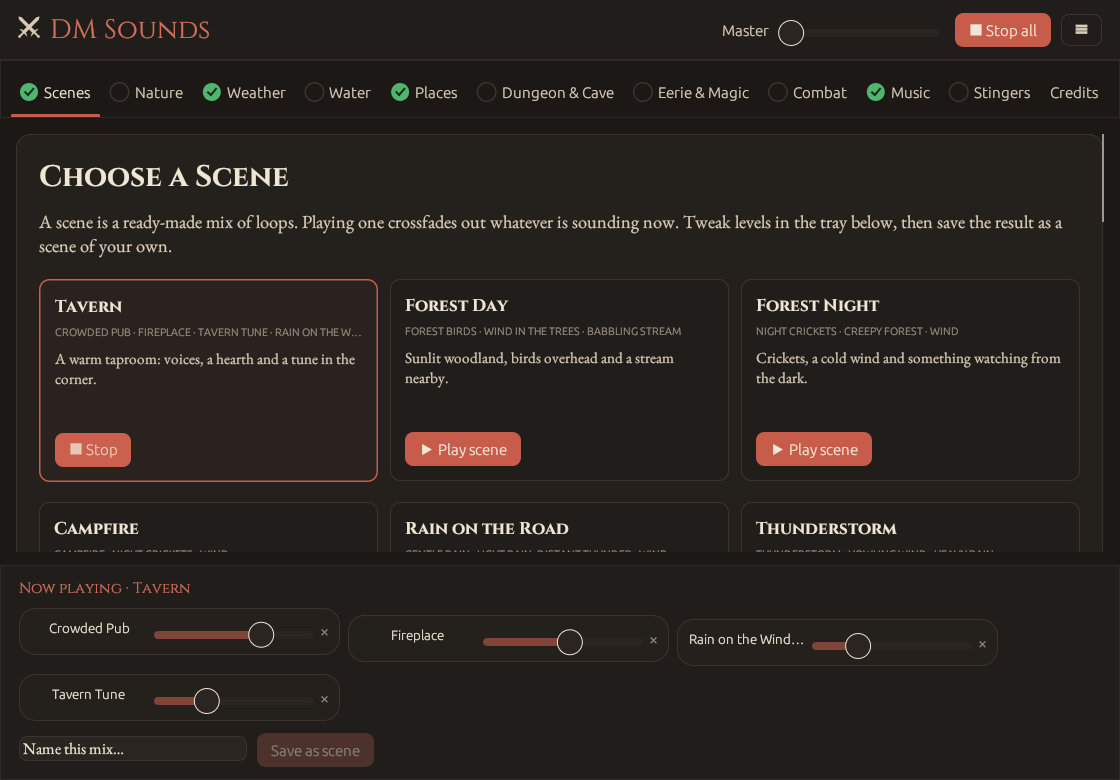
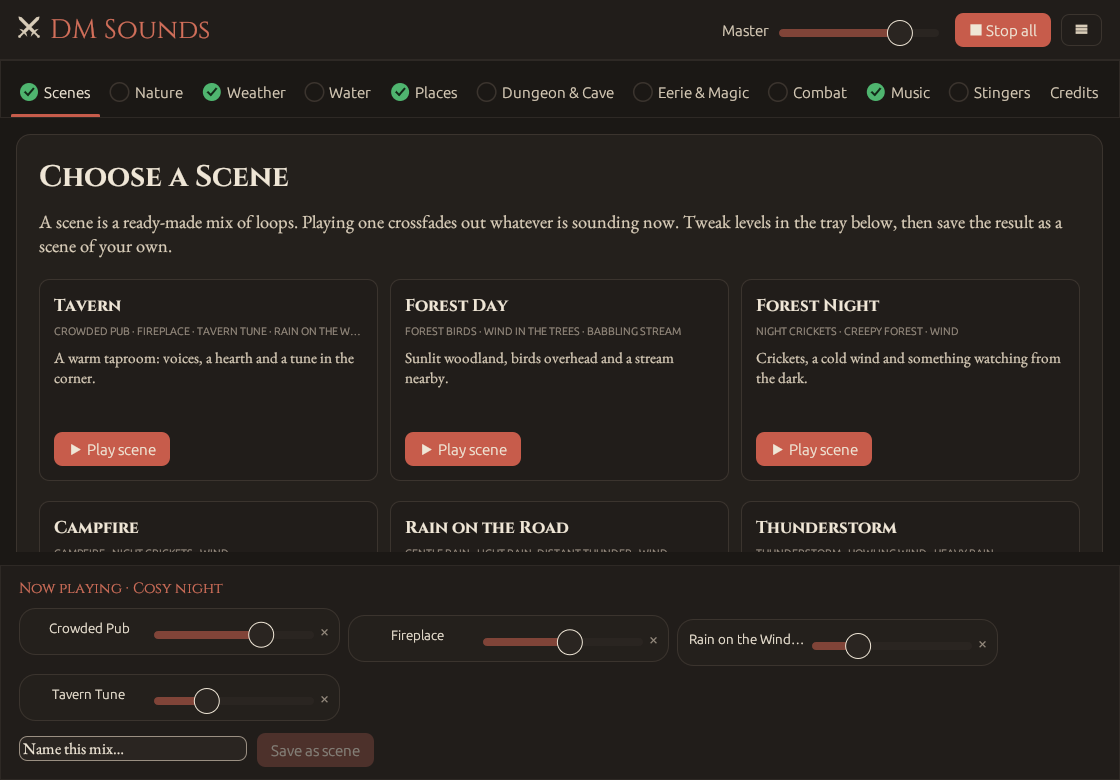
Start at 80% master volume on first launch
SavedState's derived Default gave master = 0.0 when no state file existed
yet, so a fresh install opened silent. Default is now hand-written.

Claude-Session: https://claude.ai/code/session_016AAEafS1643191ap2cV6oi

diff --git a/src/scenes.rs b/src/scenes.rs
@@ -24,7 +24,7 @@ pub fn builtin() -> Vec<Scene> {
     file.scenes
 }
 
-#[derive(Default, Serialize, Deserialize)]
+#[derive(Serialize, Deserialize)]
 pub struct SavedState {
     #[serde(default = "default_master")]
     pub master: f32,
@@ -38,6 +38,19 @@ pub struct SavedState {
 
 fn default_master() -> f32 {
     0.8
+}
+
+// Hand-written so a first launch (no state file yet) starts at a sensible
+// master level; a derived Default would give 0.0 and a silent app.
+impl Default for SavedState {
+    fn default() -> Self {
+        Self {
+            master: default_master(),
+            scenes: Vec::new(),
+            last_mix: Vec::new(),
+            resume_on_start: false,
+        }
+    }
 }
 
 pub fn state_path() -> Option<PathBuf> {
